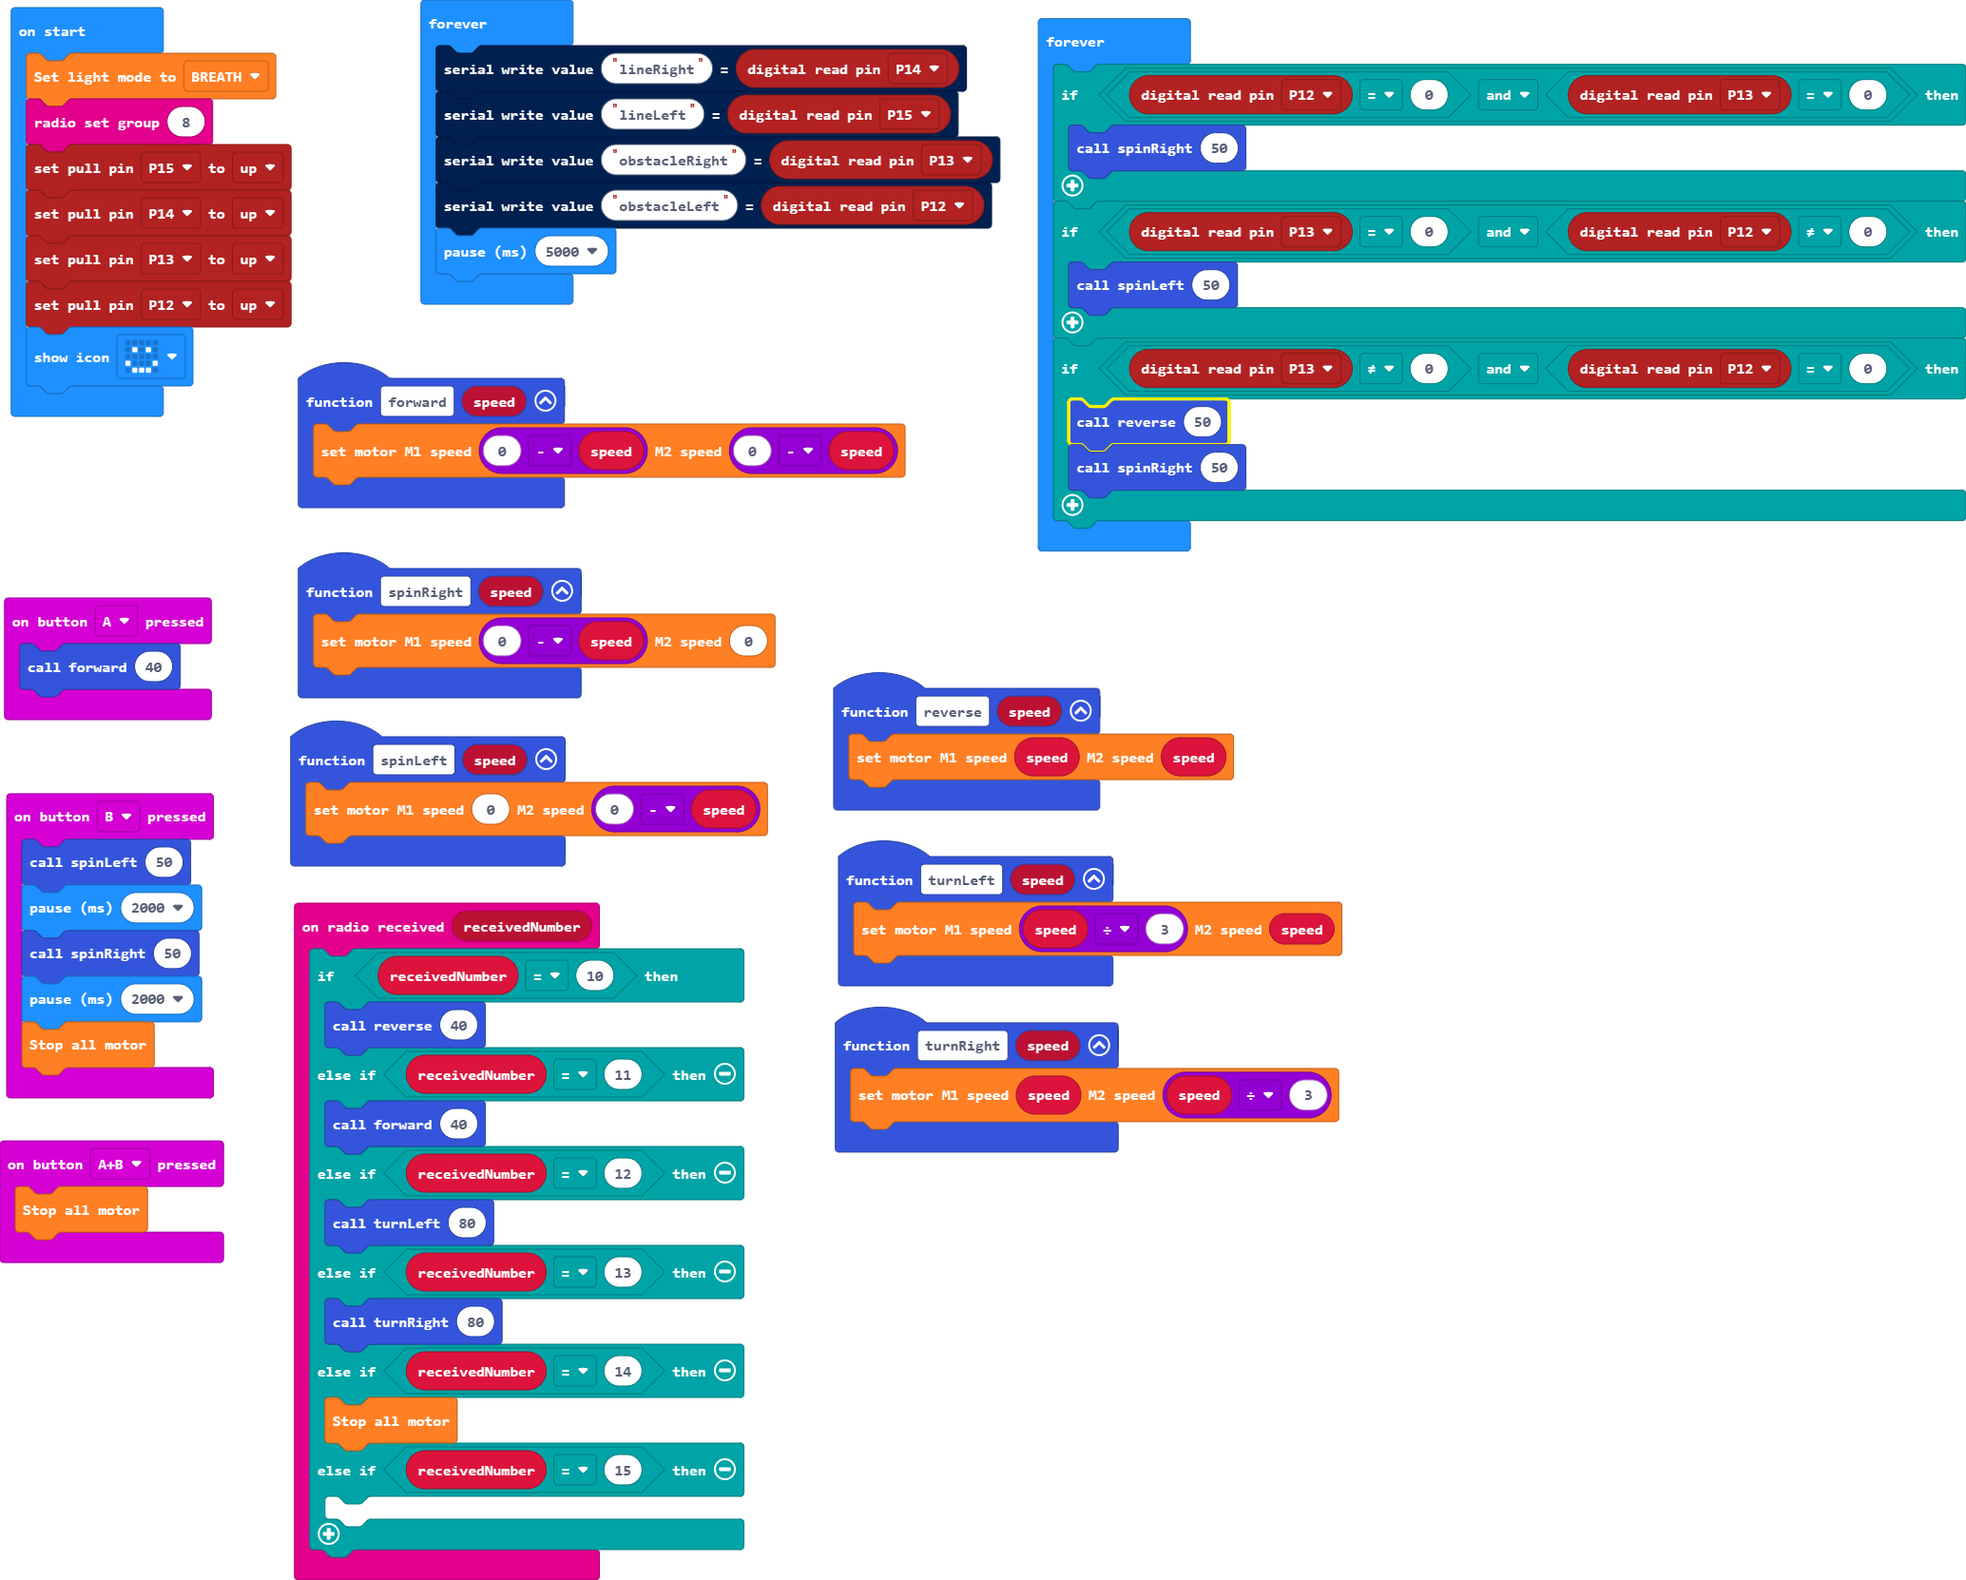
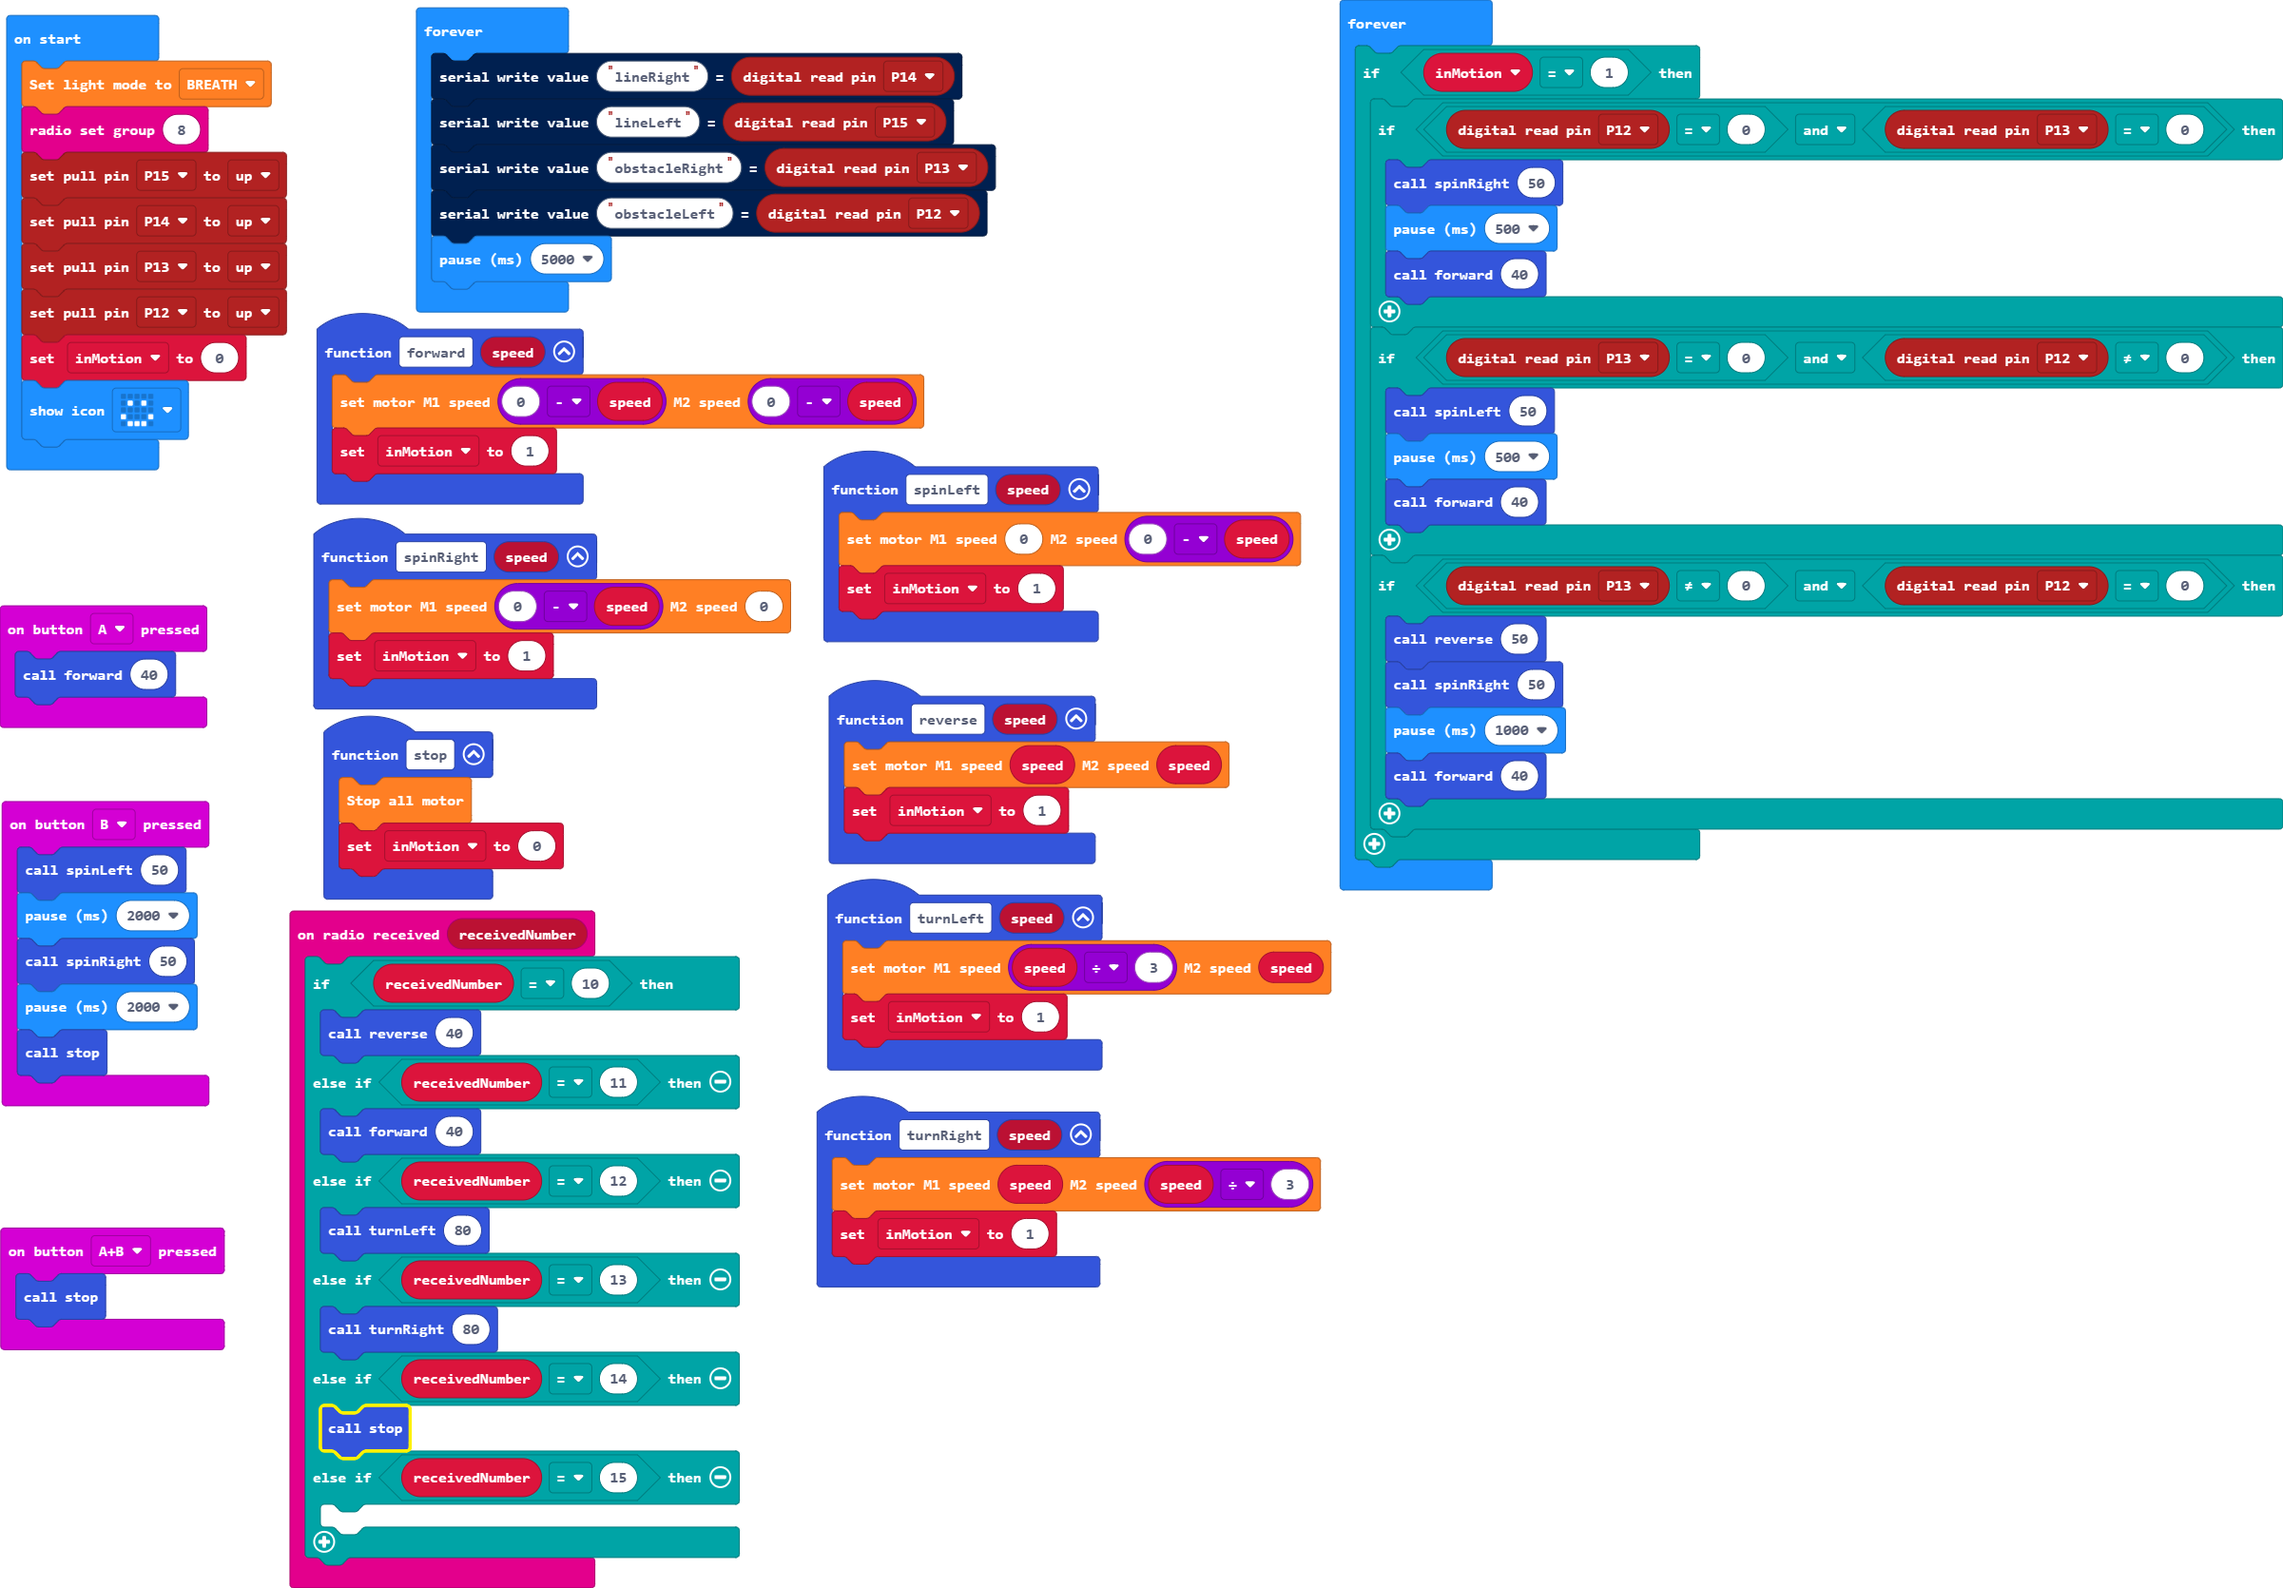
Update main.blocks, main.ts

diff --git a/main.ts b/main.ts
@@ -8,48 +8,60 @@ radio.onReceivedNumber(function (receivedNumber) {
     } else if (receivedNumber == 13) {
         turnRight(80)
     } else if (receivedNumber == 14) {
-        wuKong.stopAllMotor()
+        stop()
     } else if (receivedNumber == 15) {
     	
     }
 })
 function turnLeft (speed: number) {
     wuKong.setAllMotor(speed / 3, speed)
+    inMotion = 1
+}
+function stop () {
+    wuKong.stopAllMotor()
+    inMotion = 0
 }
 input.onButtonPressed(Button.A, function () {
     forward(40)
 })
 function spinLeft (speed: number) {
     wuKong.setAllMotor(0, 0 - speed)
+    inMotion = 1
 }
 function reverse (speed: number) {
     wuKong.setAllMotor(speed, speed)
+    inMotion = 1
 }
 function turnRight (speed: number) {
     wuKong.setAllMotor(speed, speed / 3)
+    inMotion = 1
 }
 input.onButtonPressed(Button.AB, function () {
-    wuKong.stopAllMotor()
+    stop()
 })
 input.onButtonPressed(Button.B, function () {
     spinLeft(50)
     basic.pause(2000)
     spinRight(50)
     basic.pause(2000)
-    wuKong.stopAllMotor()
+    stop()
 })
 function spinRight (speed: number) {
     wuKong.setAllMotor(0 - speed, 0)
+    inMotion = 1
 }
 function forward (speed: number) {
     wuKong.setAllMotor(0 - speed, 0 - speed)
+    inMotion = 1
 }
+let inMotion = 0
 wuKong.setLightMode(wuKong.LightMode.BREATH)
 radio.setGroup(8)
 pins.setPull(DigitalPin.P15, PinPullMode.PullUp)
 pins.setPull(DigitalPin.P14, PinPullMode.PullUp)
 pins.setPull(DigitalPin.P13, PinPullMode.PullUp)
 pins.setPull(DigitalPin.P12, PinPullMode.PullUp)
+inMotion = 0
 basic.showIcon(IconNames.Happy)
 basic.forever(function () {
     serial.writeValue("lineRight", pins.digitalReadPin(DigitalPin.P14))
@@ -59,14 +71,22 @@ basic.forever(function () {
     basic.pause(5000)
 })
 basic.forever(function () {
-    if (pins.digitalReadPin(DigitalPin.P12) == 0 && pins.digitalReadPin(DigitalPin.P13) == 0) {
-        spinRight(50)
-    }
-    if (pins.digitalReadPin(DigitalPin.P13) == 0 && pins.digitalReadPin(DigitalPin.P12) != 0) {
-        spinLeft(50)
-    }
-    if (pins.digitalReadPin(DigitalPin.P13) != 0 && pins.digitalReadPin(DigitalPin.P12) == 0) {
-        reverse(50)
-        spinRight(50)
+    if (inMotion == 1) {
+        if (pins.digitalReadPin(DigitalPin.P12) == 0 && pins.digitalReadPin(DigitalPin.P13) == 0) {
+            spinRight(50)
+            basic.pause(500)
+            forward(40)
+        }
+        if (pins.digitalReadPin(DigitalPin.P13) == 0 && pins.digitalReadPin(DigitalPin.P12) != 0) {
+            spinLeft(50)
+            basic.pause(500)
+            forward(40)
+        }
+        if (pins.digitalReadPin(DigitalPin.P13) != 0 && pins.digitalReadPin(DigitalPin.P12) == 0) {
+            reverse(50)
+            spinRight(50)
+            basic.pause(1000)
+            forward(40)
+        }
     }
 })
